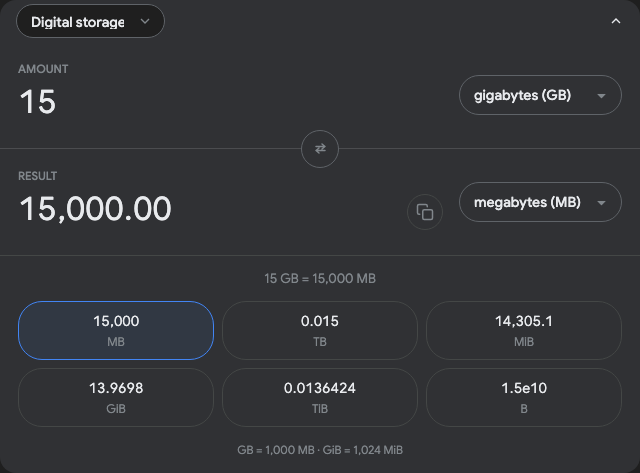
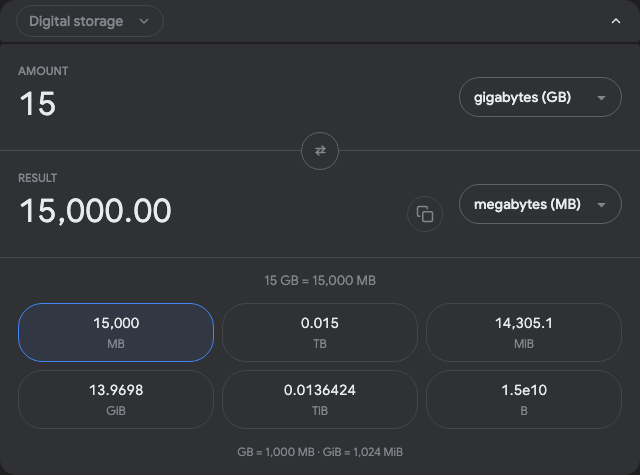
fix(panels): restore header gaps and soften converter category pill

diff --git a/plugins/unit-slot/style.css b/plugins/unit-slot/style.css
@@ -16,22 +16,41 @@
     box-sizing: border-box;
 }
 
-.uxs-wrap > .uxs-main {
-    position: relative;
+.uxs-main {
+    display: flex;
+    flex-direction: column;
+    gap: 2px;
+}
+
+.uxs-main > .uxs-pane {
     margin-bottom: 0 !important;
 }
 
 /* Reuse visible core panes. The themes make self-contained knowledge wrappers
-   transparent, so the converter must retain its native pane inside those. */
-.results-slot-panel-body .uxs-main,
-#results-page .results-slot-panel-body .uxs-main,
-.sidebar-accordion:not(.lg-sidebar-knowledge-self-contained) > .sidebar-accordion-body > .uxs-wrap > .uxs-main,
-#results-page .sidebar-accordion:not(.lg-sidebar-knowledge-self-contained) > .sidebar-accordion-body > .uxs-wrap > .uxs-main {
+   transparent, so the converter retains native header and body panes inside. */
+.results-slot-panel-body .uxs-pane,
+#results-page .results-slot-panel-body .uxs-pane,
+.sidebar-accordion:not(.lg-sidebar-knowledge-self-contained) > .sidebar-accordion-body > .uxs-wrap .uxs-pane,
+#results-page .sidebar-accordion:not(.lg-sidebar-knowledge-self-contained) > .sidebar-accordion-body > .uxs-wrap .uxs-pane {
     border: 0 !important;
     border-radius: 0 !important;
     background: transparent !important;
     box-shadow: none !important;
     margin-bottom: 0;
+}
+
+#results-page .uxs-wrap[data-collapsed="false"] > .uxs-main > .uxs-top-bar {
+    border-end-start-radius: var(--theme-radius-xs, 4px) !important;
+    border-end-end-radius: var(--theme-radius-xs, 4px) !important;
+}
+
+#results-page .uxs-main > .uxs-body {
+    border-start-start-radius: var(--theme-radius-xs, 4px) !important;
+    border-start-end-radius: var(--theme-radius-xs, 4px) !important;
+}
+
+#results-page .uxs-wrap[data-collapsed="true"] > .uxs-main > .uxs-top-bar {
+    border-radius: var(--theme-radius-pill, 999px) !important;
 }
 
 /* ── Category bar ──────────────────────────────────────────────── */
@@ -76,8 +95,9 @@
 .uxs-category-size {
     display: block;
     visibility: hidden;
-    padding: 8px 40px 8px 14px;
-    font-size: 0.88rem;
+    padding: 6px 40px 6px 12px;
+    border: 1px solid transparent;
+    font-size: 0.875rem;
     font-weight: 500;
     white-space: nowrap;
     overflow: hidden;
@@ -112,12 +132,12 @@
     width: 100%;
     height: 100%;
     min-width: 0;
-    padding: 8px 40px 8px 14px;
-    background: var(--bg, Canvas) !important;
-    border: 1px solid var(--border, #dadce0) !important;
-    border-radius: 100px;
-    color: var(--text-primary, inherit);
-    font-size: 0.88rem;
+    padding: 6px 40px 6px 12px;
+    background: var(--bg-light, Canvas) !important;
+    border: 1px solid var(--border-light, currentColor) !important;
+    border-radius: var(--theme-radius-pill, 999px);
+    color: var(--text-secondary, inherit);
+    font-size: 0.875rem;
     font-weight: 500;
     letter-spacing: 0;
     outline: none;
@@ -126,7 +146,8 @@
 }
 
 .uxs-category-select:hover {
-    background-color: var(--bg-hover, rgba(128, 128, 128, 0.12));
+    background-color: var(--bg-hover, var(--bg-light, Canvas)) !important;
+    color: var(--text-primary, inherit);
 }
 
 .uxs-category-select:focus-visible {

diff --git a/themes/literallyapple/style.css b/themes/literallyapple/style.css
@@ -4717,7 +4717,7 @@ button.mp2-item[hidden] {
 #results-page .theme-plugin-panel {
     display: flex;
     flex-direction: column;
-    gap: 0;
+    gap: 2px;
     min-width: 0;
     padding: 0 !important;
     background: transparent !important;
@@ -4729,7 +4729,7 @@ button.mp2-item[hidden] {
 
 #results-page #results-sidebar .sidebar-accordion.theme-plugin-panel,
 #results-page .results-slot-panel-full-width .sidebar-accordion.theme-plugin-panel {
-    gap: 0;
+    gap: 2px;
 }
 
 #results-page .theme-plugin-panel > .sidebar-accordion-toggle {
@@ -4770,8 +4770,8 @@ button.mp2-item[hidden] {
 }
 
 #results-page .theme-plugin-panel.open > .sidebar-accordion-toggle {
-    border-end-start-radius: 0;
-    border-end-end-radius: 0;
+    border-end-start-radius: var(--theme-radius-xs);
+    border-end-end-radius: var(--theme-radius-xs);
 }
 
 #results-page .theme-plugin-panel > .sidebar-accordion-body {
@@ -4782,7 +4782,7 @@ button.mp2-item[hidden] {
     background: var(--la-card);
     border: 1px solid var(--border-light);
     border-top: 0;
-    border-radius: 0 0 var(--theme-radius-xl) var(--theme-radius-xl);
+    border-radius: var(--theme-radius-xs) var(--theme-radius-xs) var(--theme-radius-xl) var(--theme-radius-xl);
 }
 
 #results-page .theme-plugin-panel:not(.open) > .sidebar-accordion-body {
@@ -4800,6 +4800,11 @@ button.mp2-item[hidden] {
 #results-page #results-sidebar .theme-plugin-panel.open > .sidebar-accordion-toggle {
     border-start-start-radius: var(--theme-radius-xl) !important;
     border-start-end-radius: var(--theme-radius-xl) !important;
-    border-end-start-radius: 0 !important;
-    border-end-end-radius: 0 !important;
+    border-end-start-radius: var(--theme-radius-xs) !important;
+    border-end-end-radius: var(--theme-radius-xs) !important;
+}
+
+#results-page #results-sidebar .theme-plugin-panel.open > .sidebar-accordion-body {
+    border-start-start-radius: var(--theme-radius-xs) !important;
+    border-start-end-radius: var(--theme-radius-xs) !important;
 }

diff --git a/themes/literallygoogle/style.css b/themes/literallygoogle/style.css
@@ -6869,7 +6869,7 @@ button.mp2-item[hidden] {
 #results-page .theme-plugin-panel {
     display: flex;
     flex-direction: column;
-    gap: 0;
+    gap: 2px;
     min-width: 0;
     padding: 0 !important;
     background: transparent !important;
@@ -6881,7 +6881,7 @@ button.mp2-item[hidden] {
 
 #results-page #results-sidebar .sidebar-accordion.theme-plugin-panel,
 #results-page .results-slot-panel-full-width .sidebar-accordion.theme-plugin-panel {
-    gap: 0;
+    gap: 2px;
 }
 
 #results-page .theme-plugin-panel > .sidebar-accordion-toggle {
@@ -6923,8 +6923,8 @@ button.mp2-item[hidden] {
 
 #results-page .theme-plugin-panel.open > .sidebar-accordion-toggle,
 #results-page #results-sidebar .theme-plugin-panel.open > .sidebar-accordion-toggle {
-    border-end-start-radius: 0;
-    border-end-end-radius: 0;
+    border-end-start-radius: var(--theme-radius-xs);
+    border-end-end-radius: var(--theme-radius-xs);
 }
 
 #results-page .theme-plugin-panel > .sidebar-accordion-body {
@@ -6935,7 +6935,7 @@ button.mp2-item[hidden] {
     background: var(--lg-sidebar-row-surface);
     border: 0;
     border-top: 0;
-    border-radius: 0 0 var(--theme-radius-lg) var(--theme-radius-lg);
+    border-radius: var(--theme-radius-xs) var(--theme-radius-xs) var(--theme-radius-lg) var(--theme-radius-lg);
 }
 
 #results-page .theme-plugin-panel:not(.open) > .sidebar-accordion-body {
@@ -6944,4 +6944,9 @@ button.mp2-item[hidden] {
 
 #results-page .theme-plugin-panel.open > .sidebar-accordion-body {
     display: block !important;
+}
+
+#results-page #results-sidebar .theme-plugin-panel.open > .sidebar-accordion-body {
+    border-start-start-radius: var(--theme-radius-xs) !important;
+    border-start-end-radius: var(--theme-radius-xs) !important;
 }

diff --git a/plugins/unit-slot/template.html b/plugins/unit-slot/template.html
@@ -1,6 +1,6 @@
 <div class="uxs-wrap" data-measure="{{measure}}" data-collapsed="false">
-  <div class="uxs-main sidebar-panel degoog-panel degoog-panel--accordion">
-    <div class="uxs-top-bar">
+  <div class="uxs-main">
+    <div class="uxs-top-bar uxs-pane sidebar-panel degoog-panel degoog-panel--accordion">
       <button type="button" class="degoog-accordion-toggle uxs-toggle" aria-expanded="true" aria-controls="uxs-body" aria-label="{{ t:plugin-unit-slot.collapseConverter }}" title="{{ t:plugin-unit-slot.collapseConverter }}">
         <span class="uxs-summary" aria-live="polite" aria-hidden="true">{{amount}} {{from_code}} = {{result}} {{to_code}}</span>
         <svg class="accordion-chevron" width="16" height="16" viewBox="0 0 24 24" fill="none" stroke="currentColor" stroke-width="2"><polyline points="6 9 12 15 18 9"/></svg>
@@ -12,7 +12,7 @@
       </div>
     </div>
 
-    <div class="uxs-body" id="uxs-body">
+    <div class="uxs-body uxs-pane sidebar-panel degoog-panel degoog-panel--accordion" id="uxs-body">
     <div class="uxs-row" id="uxs-from-row">
       <div class="uxs-input-wrap uxs-input-wrap--editable">
         <div class="uxs-label">{{ t:plugin-unit-slot.amount }}</div>
